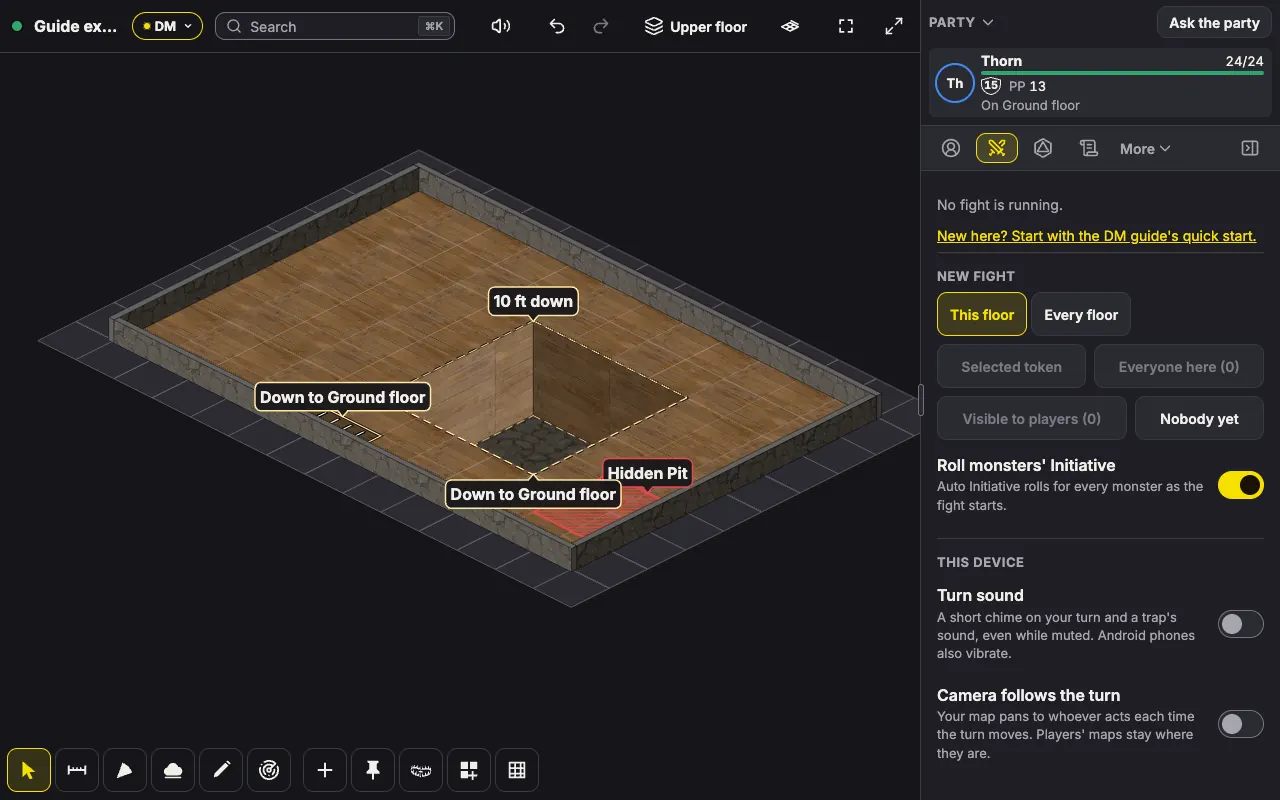
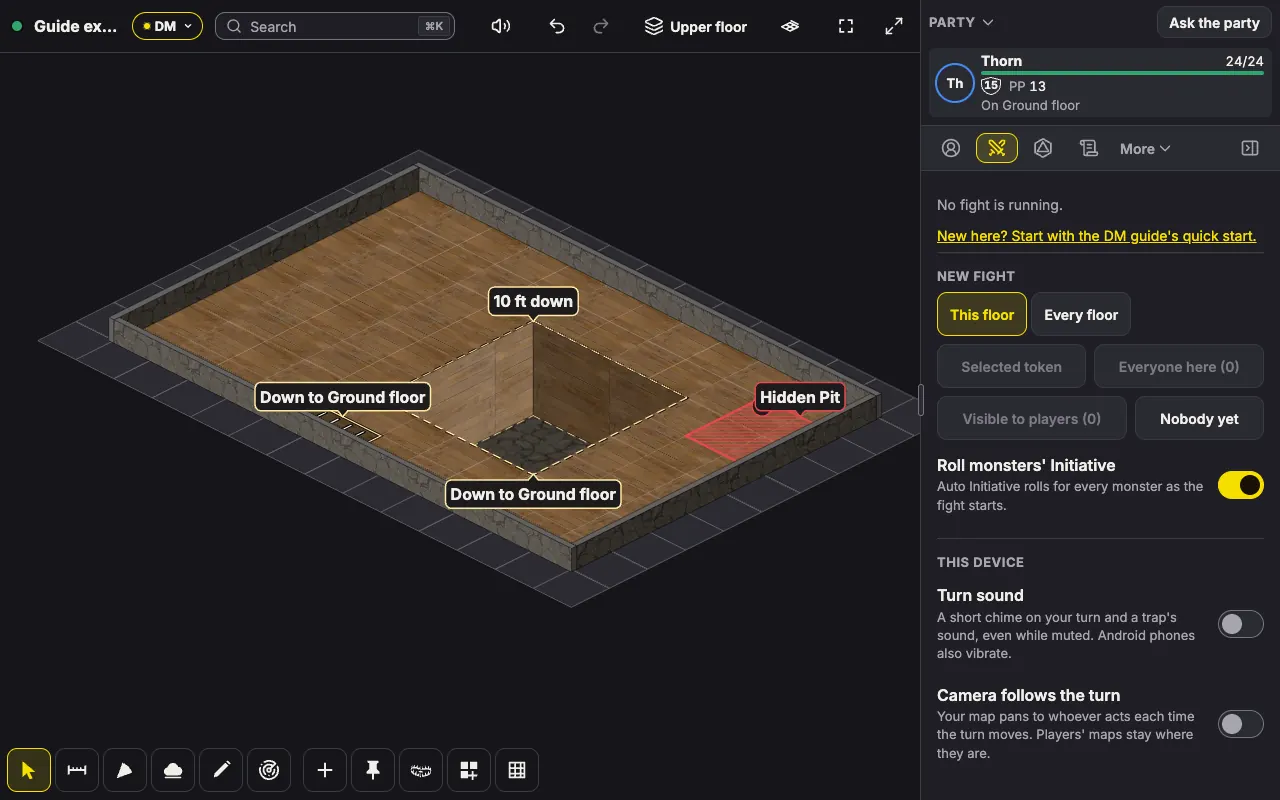
docs(guide): retake the opening in isometric with the pit clear of the hole's pills

Changed region(s): [[0.4062, 0.4688, 0.6875, 0.6875]]

diff --git a/scripts/guide-floors-phase4.ts b/scripts/guide-floors-phase4.ts
@@ -297,7 +297,11 @@ try {
   await quiet(dm);
   await sleep(1500);
   await panelToTop(dm, initiative);
+  // The pit moves to the far corner for this picture, so its name does not meet the hole's name pill. It goes back after.
+  await ops.send({ t: "trap.update", trapId: trap, patch: { zone: { cells: [{ ...TRAPDOOR, x: 11, y: 2 }] } } });
+  await sleep(1500);
   await picture(dm, "floors-opening-isometric");
+  await ops.send({ t: "trap.update", trapId: trap, patch: { zone: { cells: [TRAPDOOR] } } });
   await key(dm, "i");
   await dm.getByRole("button", { name: /^View: Top-down/ }).waitFor();
 
